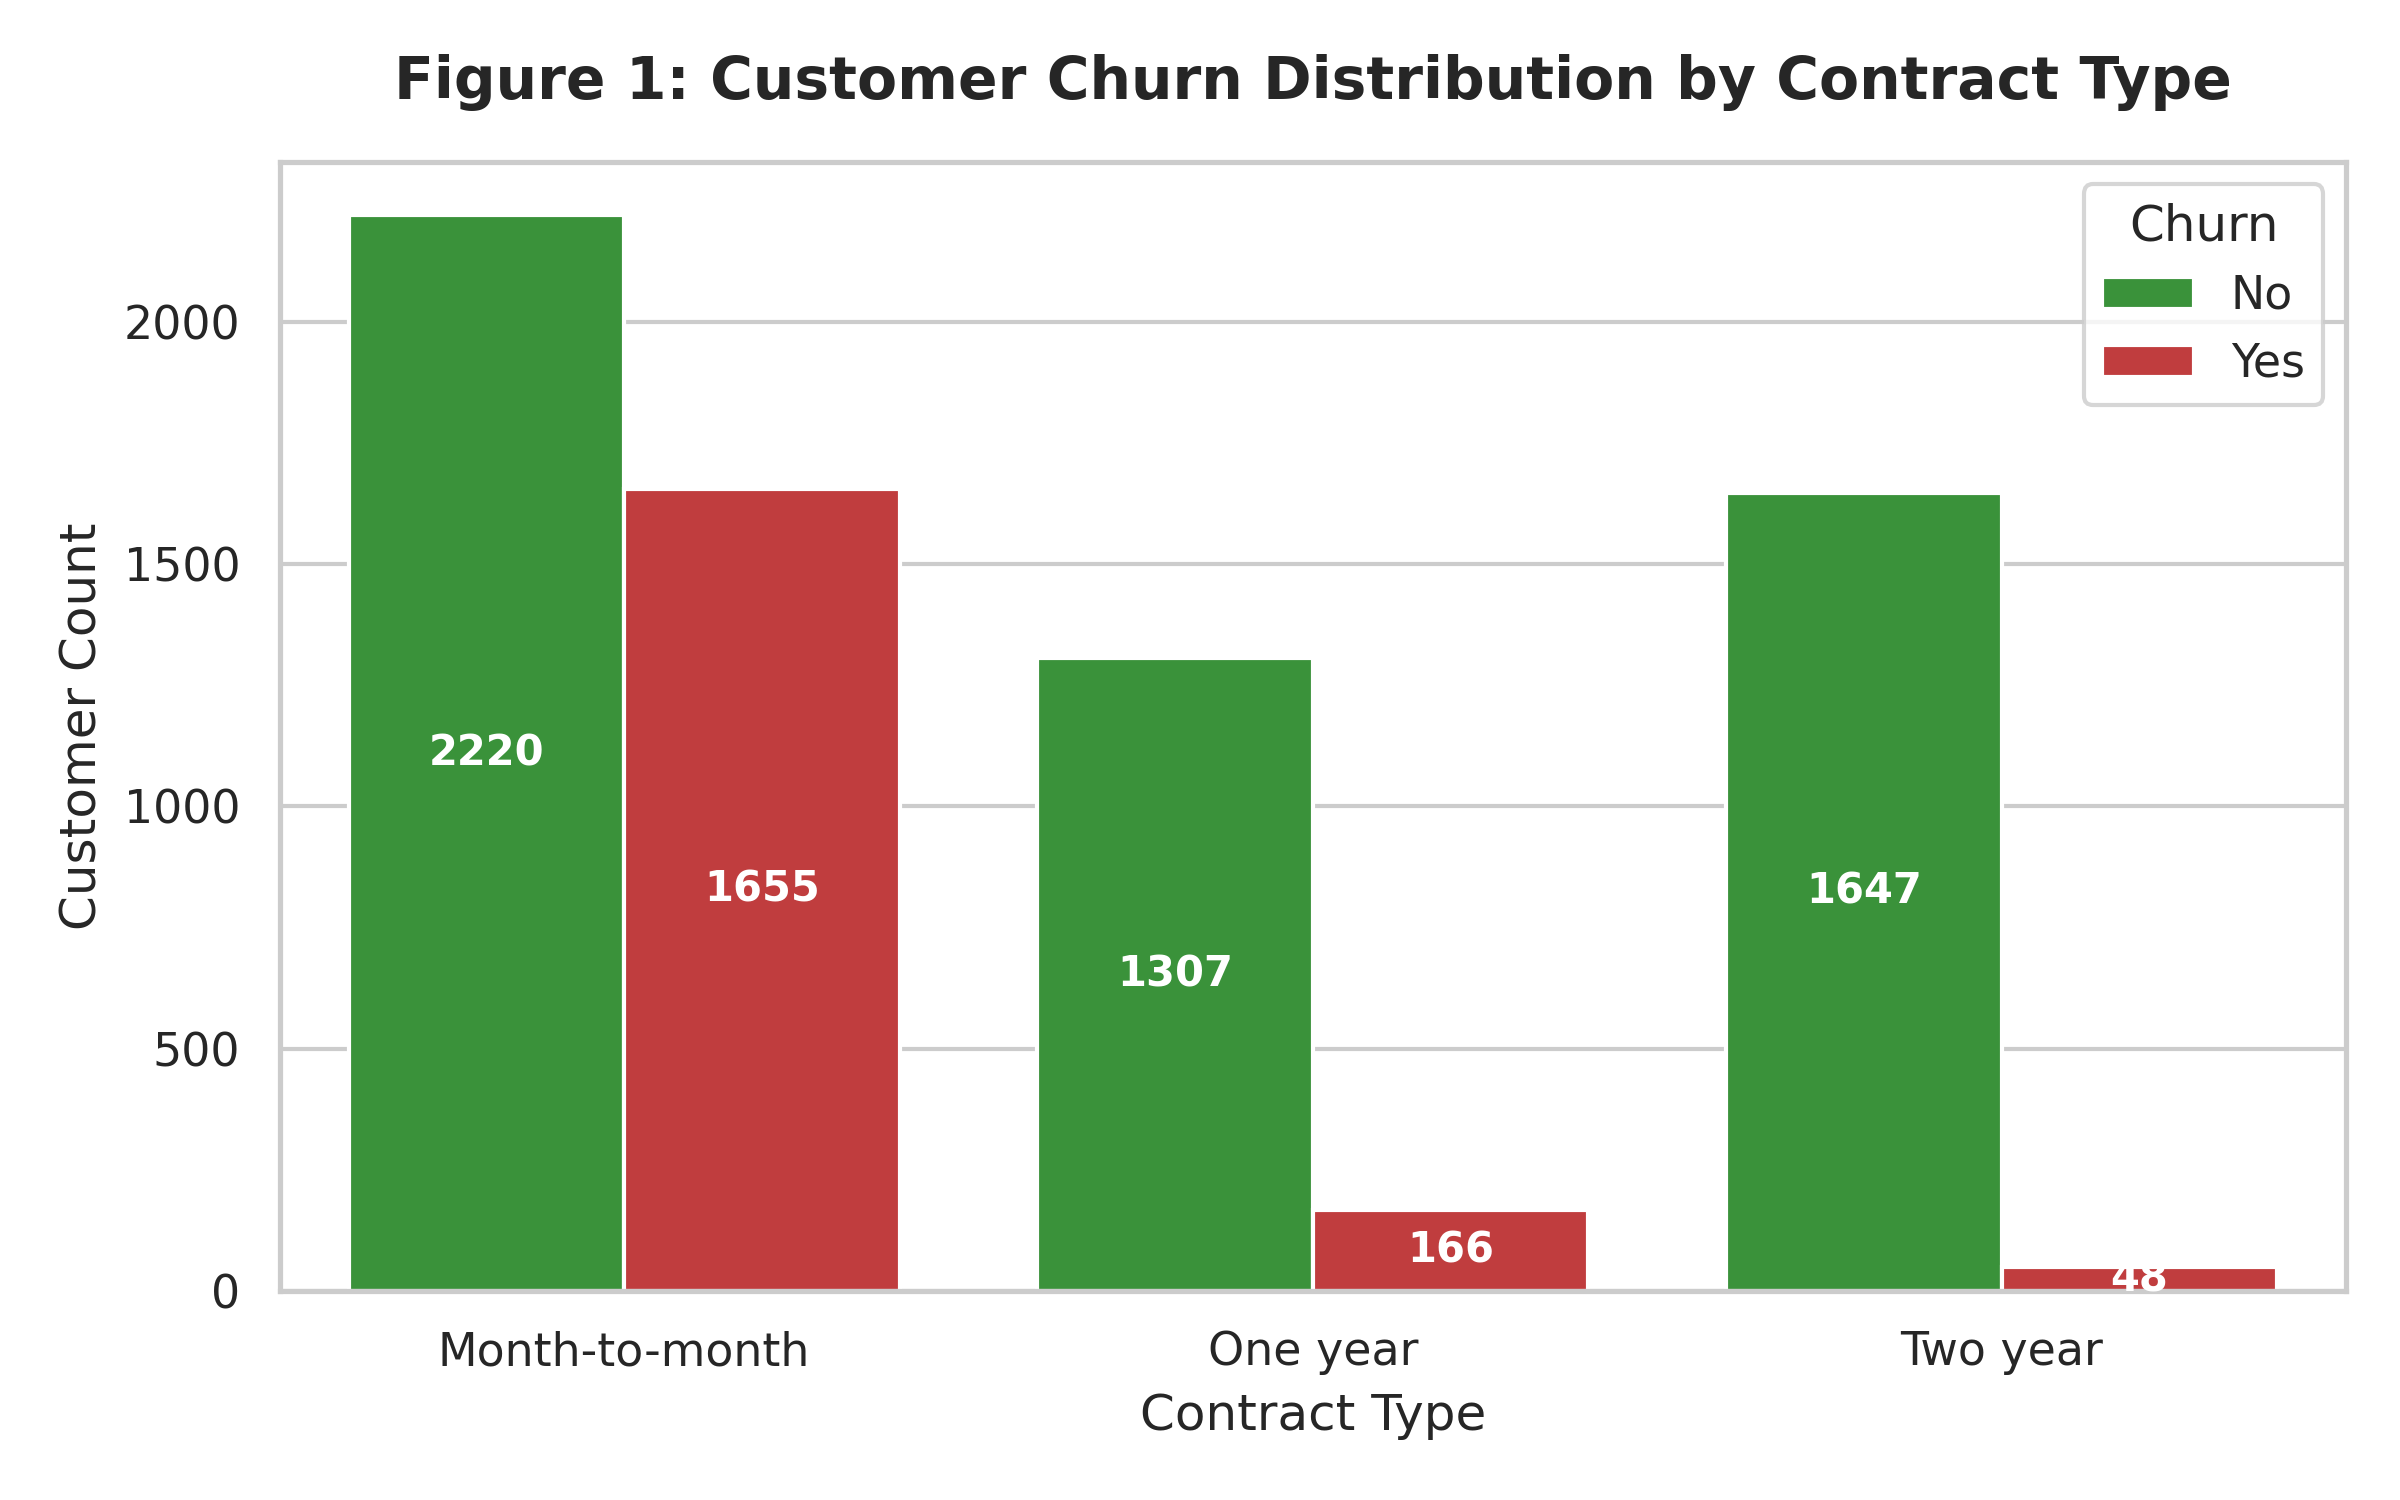
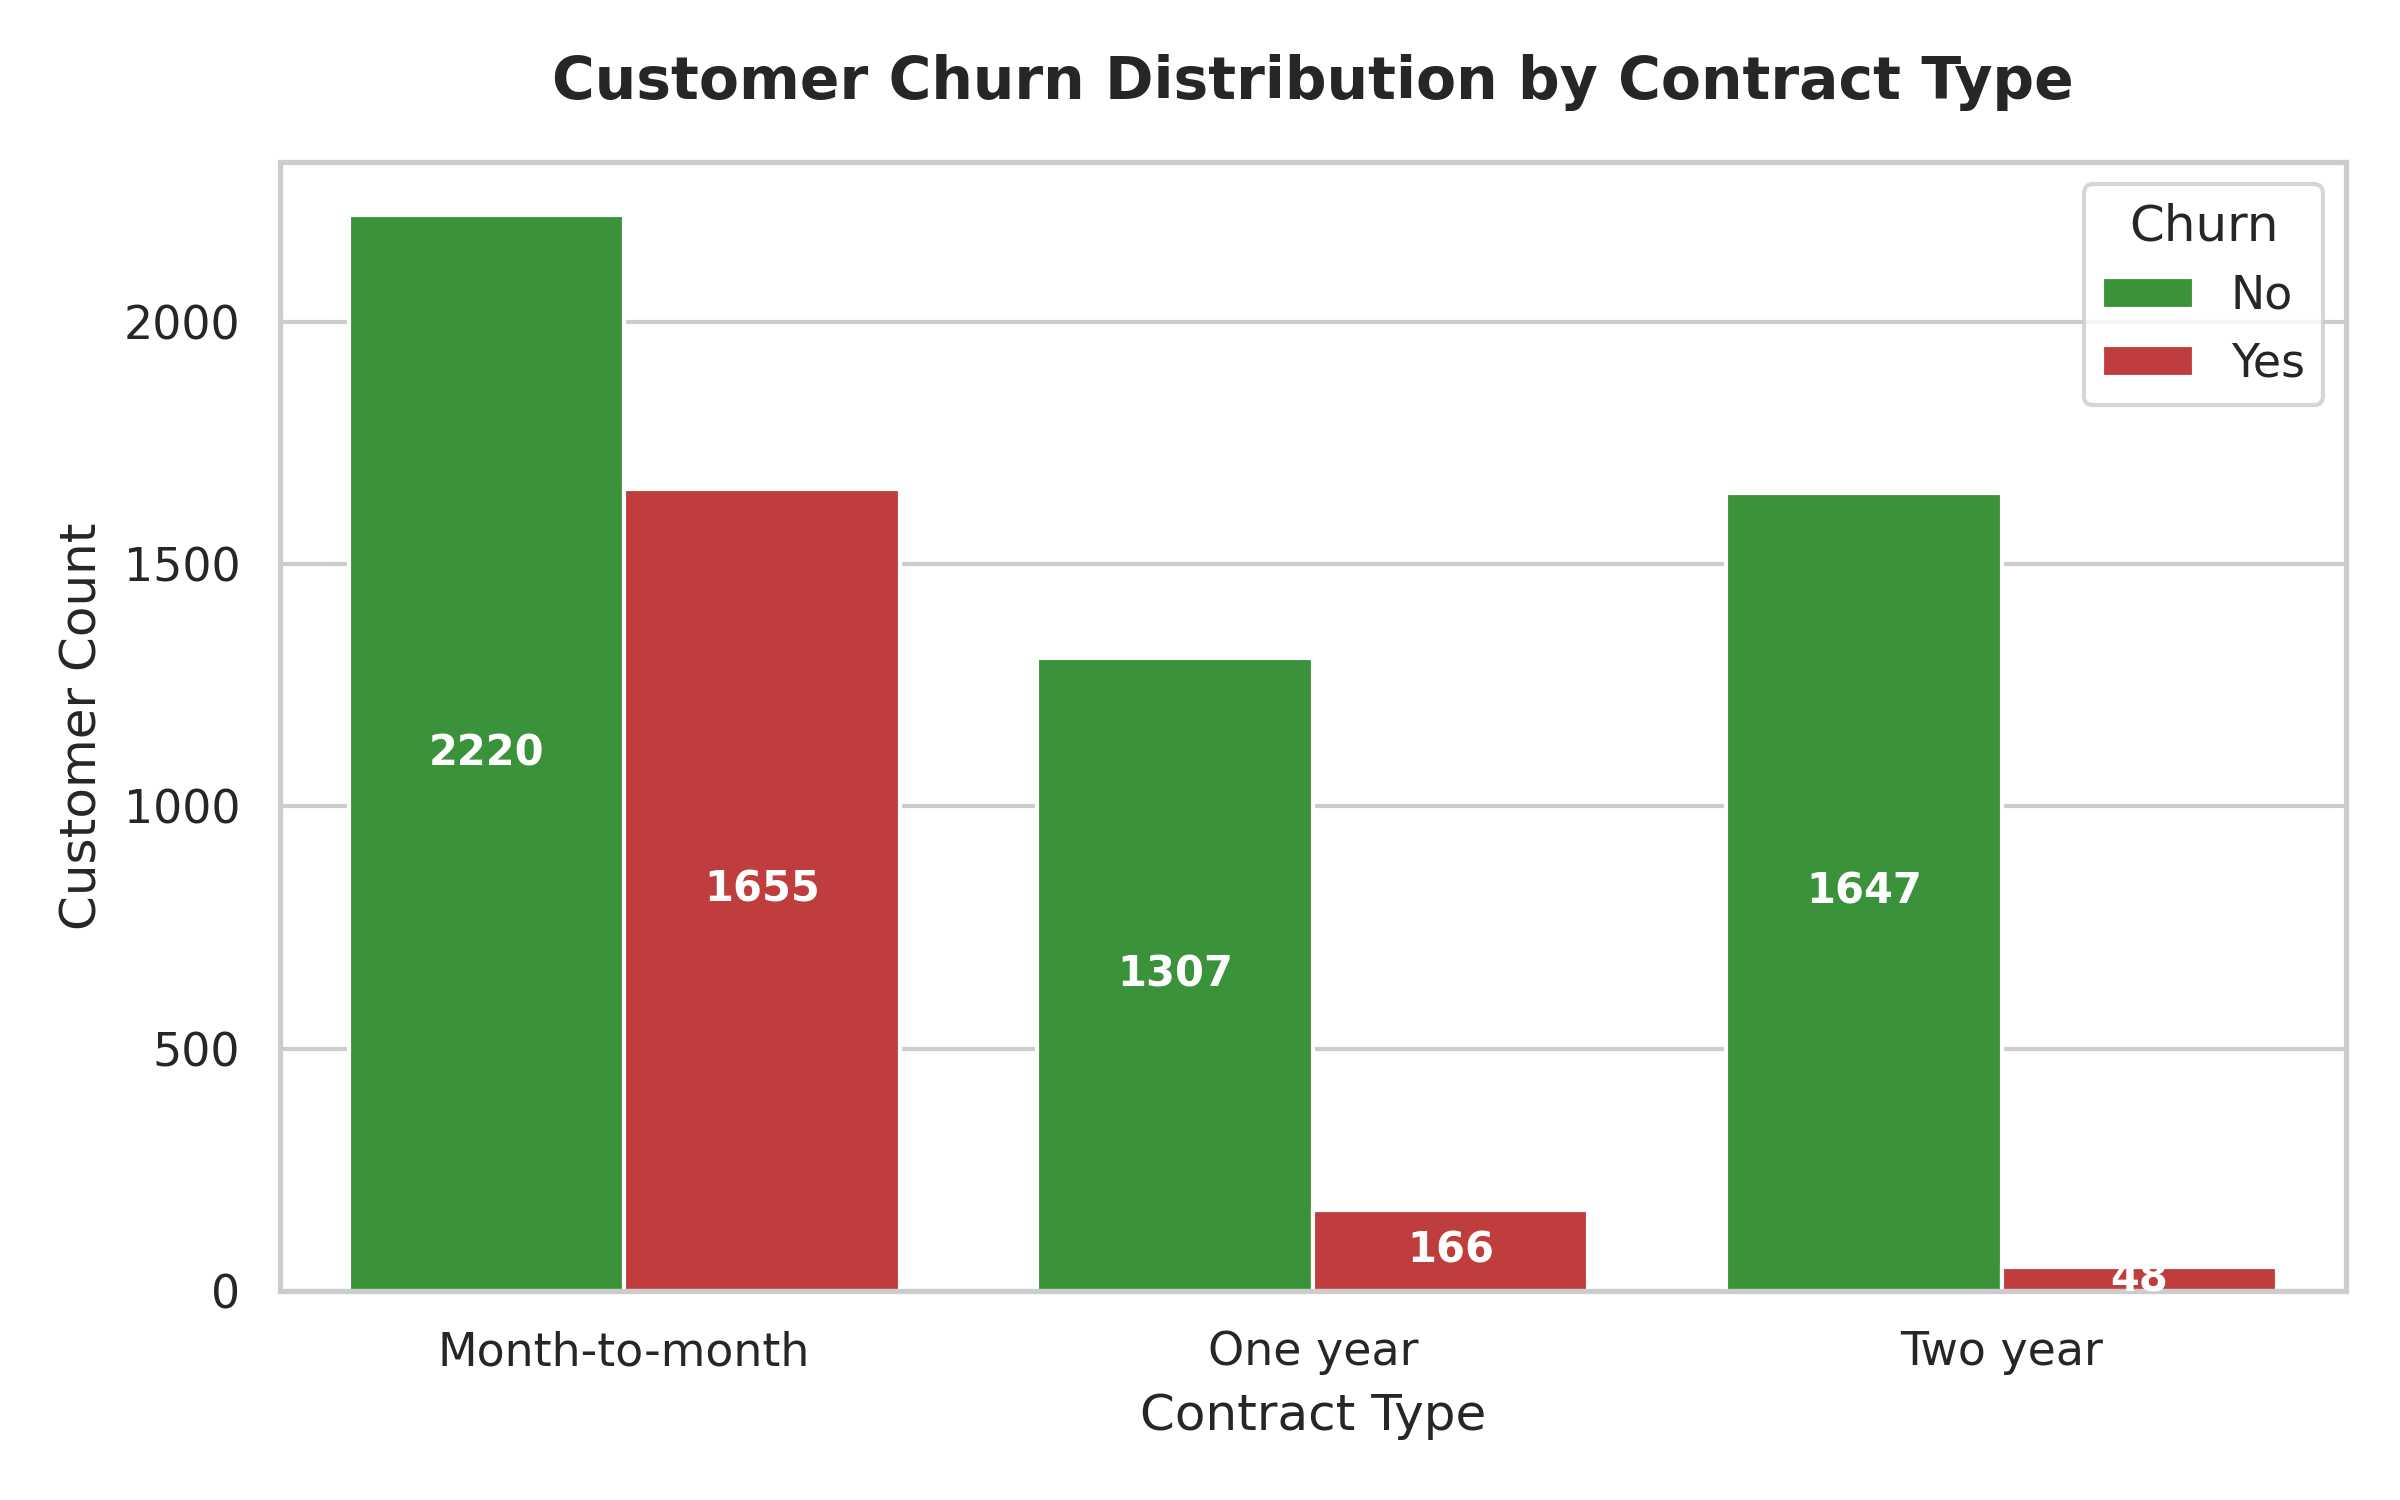
regenerate graphs

Changed region(s): [[0.1562, 0.0307, 0.9375, 0.092]]

diff --git a/src/eda_and_ml_pipeline.py b/src/eda_and_ml_pipeline.py
@@ -37,7 +37,7 @@ OS_OUTPUT_DIR = os.path.join("output", "visualizations")
 os.makedirs(OS_OUTPUT_DIR, exist_ok=True)
 os.makedirs("data", exist_ok=True)
 
-def load_and_validate_data(filepath="data/Telco_Customer_Churn.csv"):
+def load_and_validate_data(filepath="./data/Telco_Customer_Churn.csv"):
     print("=" * 60)
     print("STEP 1: DATA LOADING & QUALITY VALIDATION")
     print("=" * 60)
@@ -77,7 +77,7 @@ def generate_visualizations(df):
     # Visualization 1: Churn Rate by Contract Type
     plt.figure(figsize=(8, 5))
     ax1 = sns.countplot(data=df, x='Contract', hue='Churn', palette=['#2ca02c', '#d62728'])
-    plt.title('Figure 1: Customer Churn Distribution by Contract Type', fontsize=14, fontweight='bold', pad=15)
+    plt.title('Customer Churn Distribution by Contract Type', fontsize=14, fontweight='bold', pad=15)
     plt.xlabel('Contract Type', fontsize=12)
     plt.ylabel('Customer Count', fontsize=12)
     for p in ax1.patches:
@@ -95,7 +95,7 @@ def generate_visualizations(df):
     plt.figure(figsize=(9, 5))
     sns.kdeplot(data=df[df['Churn'] == 'No']['tenure'], label='Retained (No Churn)', color='#2ca02c', fill=True, alpha=0.4)
     sns.kdeplot(data=df[df['Churn'] == 'Yes']['tenure'], label='Churned (Yes)', color='#d62728', fill=True, alpha=0.4)
-    plt.title('Figure 2: Tenure Density Distribution by Churn Status', fontsize=14, fontweight='bold', pad=15)
+    plt.title('Tenure Density Distribution by Churn Status', fontsize=14, fontweight='bold', pad=15)
     plt.xlabel('Tenure (Months)', fontsize=12)
     plt.ylabel('Density', fontsize=12)
     plt.legend(title='Customer Status')
@@ -108,7 +108,7 @@ def generate_visualizations(df):
     # Visualization 3: Monthly Charges Distribution by Churn Status
     plt.figure(figsize=(8, 5))
     sns.boxplot(data=df, x='Churn', y='MonthlyCharges', hue='Churn', palette=['#2ca02c', '#d62728'], legend=False)
-    plt.title('Figure 3: Monthly Charges Breakdown by Churn Status', fontsize=14, fontweight='bold', pad=15)
+    plt.title('Monthly Charges Breakdown by Churn Status', fontsize=14, fontweight='bold', pad=15)
     plt.xlabel('Churn Status', fontsize=12)
     plt.ylabel('Monthly Charges ($)', fontsize=12)
     plt.tight_layout()
@@ -120,7 +120,7 @@ def generate_visualizations(df):
     # Visualization 4: Churn Rate by Internet Service and Tech Support
     plt.figure(figsize=(10, 5))
     sns.barplot(data=df, x='InternetService', y=(df['Churn'] == 'Yes').astype(int), hue='TechSupport', palette='Set2', errorbar=None)
-    plt.title('Figure 4: Churn Rate by Internet Service & Tech Support Availability', fontsize=14, fontweight='bold', pad=15)
+    plt.title('Churn Rate by Internet Service & Tech Support Availability', fontsize=14, fontweight='bold', pad=15)
     plt.xlabel('Internet Service Provider Type', fontsize=12)
     plt.ylabel('Churn Rate (Ratio)', fontsize=12)
     plt.legend(title='Tech Support')
@@ -222,7 +222,7 @@ def preprocess_and_train(df):
     # Plot Top 10 Feature Importances
     plt.figure(figsize=(9, 5))
     rf_importances.head(10).plot(kind='barh', color='#1f77b4').invert_yaxis()
-    plt.title('Figure 5: Top 10 Customer Churn Predictors (Feature Importance)', fontsize=14, fontweight='bold', pad=15)
+    plt.title('Top 10 Customer Churn Predictors (Feature Importance)', fontsize=14, fontweight='bold', pad=15)
     plt.xlabel('Relative Feature Importance Score', fontsize=12)
     plt.tight_layout()
     fig5_path = os.path.join(OS_OUTPUT_DIR, "viz5_feature_importance.png")
